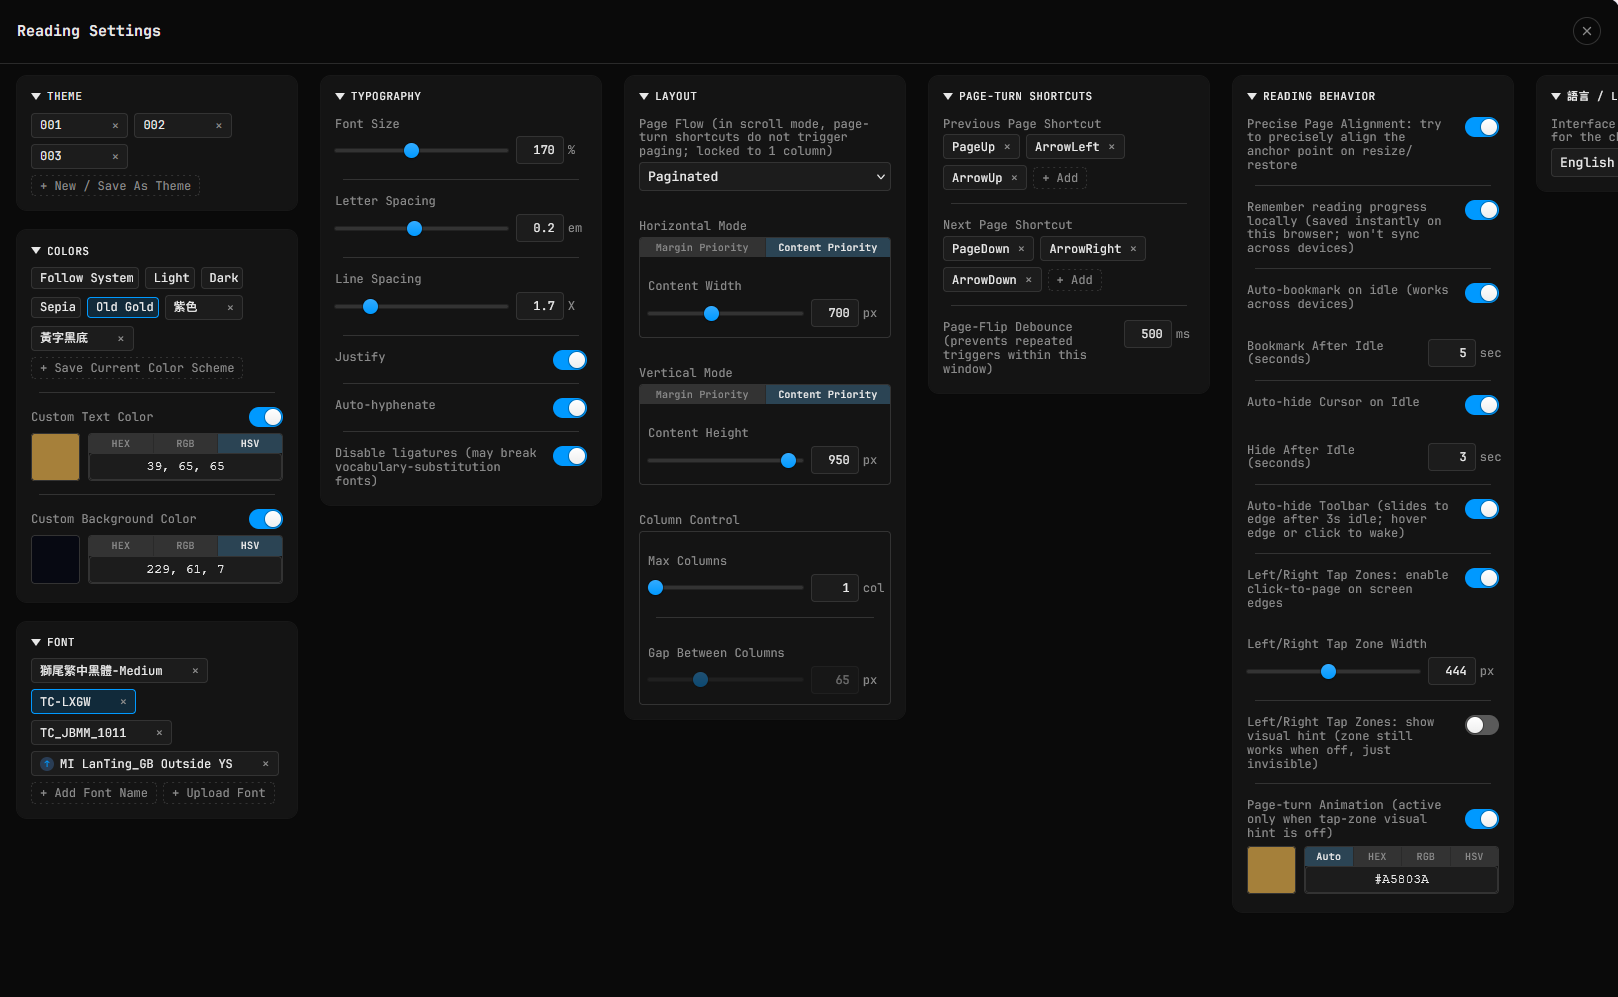
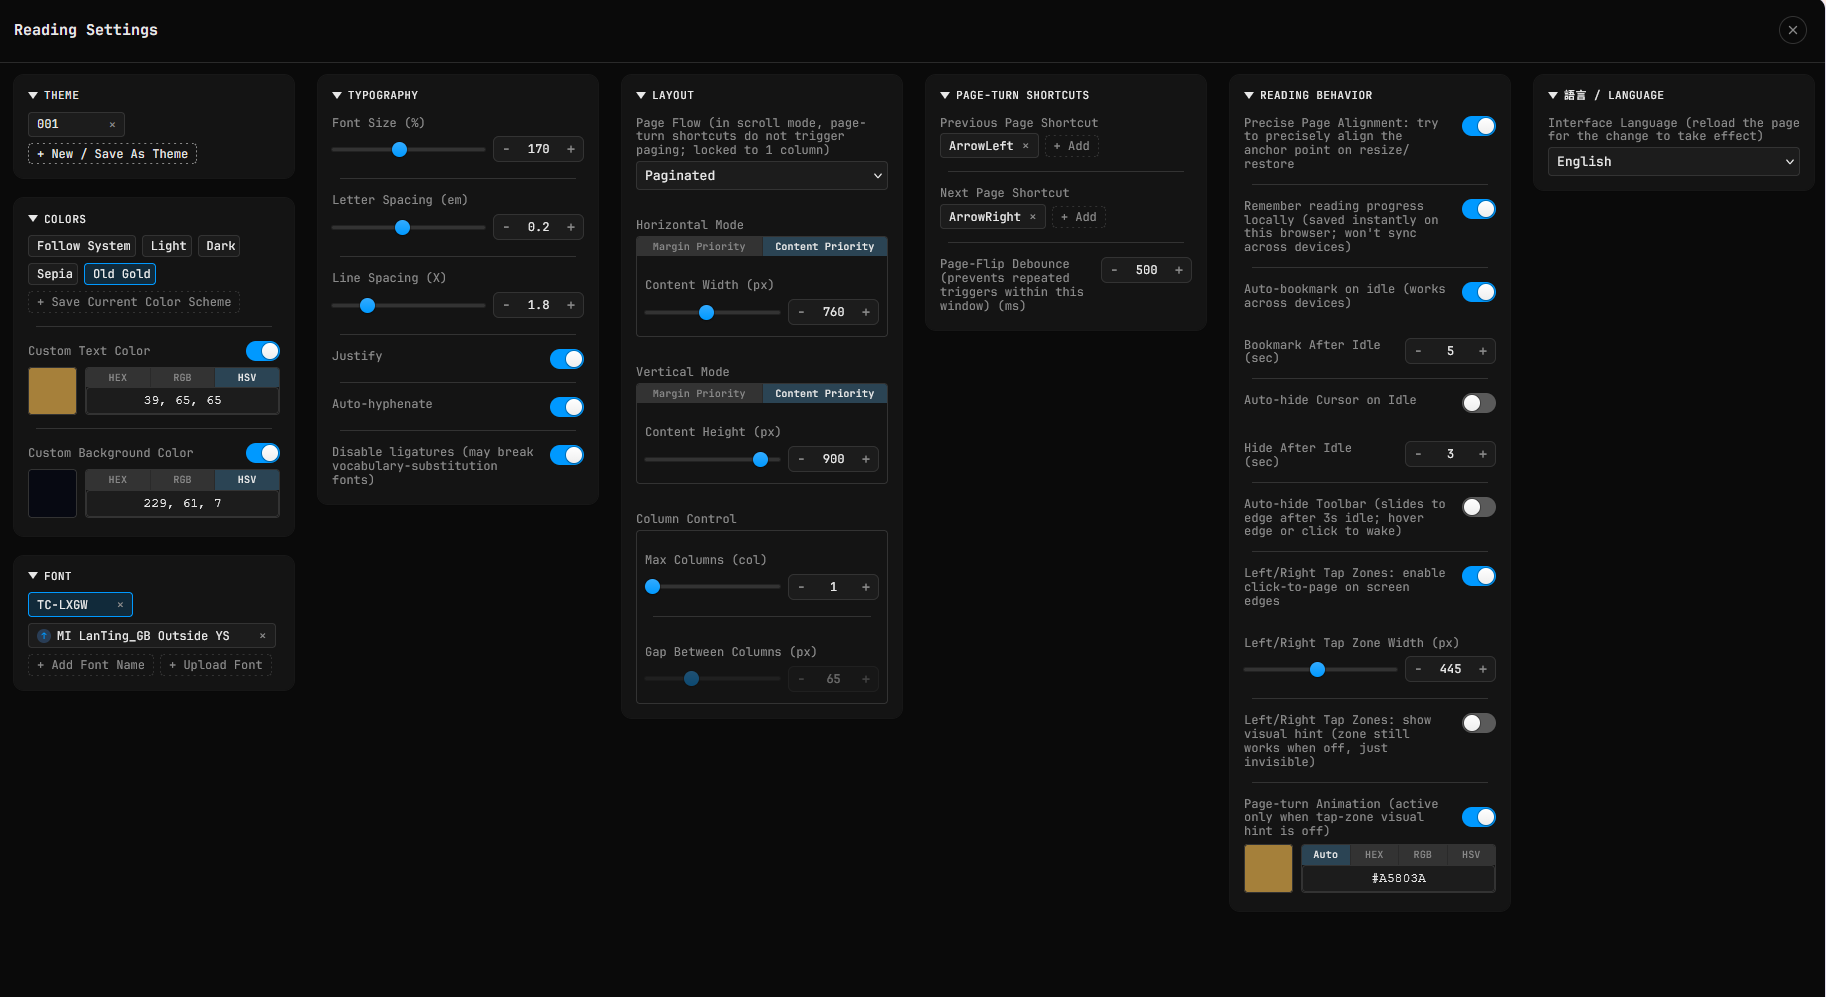
docs(readme): 更新設定面板截圖與功能說明（數值調整器、滾輪翻頁、精準定位新行為、修正範圍與主題數）
- 中英截圖換成 v1.76.24 設定面板。
- 新增數值欄位操作說明（−／＋、方向鍵、滾輪、增減單位規則）。
- 翻頁快速鍵段落補上滑鼠滾輪翻頁，以及設定面板開啟時暫停翻頁。
- 翻頁精準定位改寫為「頁面第一個字精確維持在頁首、導覽時恢復原分頁」。
- 修正：字級 70%～300%、字距 −0.05em～0.5em、內建主題五種（新增墨金／Old Gold）、中文「置閒」→「閒置」。

Claude-Session: https://claude.ai/code/session_01NaKhqSDZUGaypDv8nTNDg1

diff --git a/README.md b/README.md
@@ -16,8 +16,8 @@ Calibre-Web's built-in epub.js reader has limited typography controls (font size
 
 ### Typography
 
-- **Font size**: adjustable from 50% to 300%.
-- **Letter spacing**: adjustable from −0.1em to 0.5em.
+- **Font size**: adjustable from 70% to 300%.
+- **Letter spacing**: adjustable from −0.05em to 0.5em.
 - **Line spacing**: adjustable from 1× to 5×.
 - **Justification**: toggle full justification on or off.
 - **Auto-hyphenation**: toggle automatic hyphenation on or off.
@@ -25,6 +25,9 @@ Calibre-Web's built-in epub.js reader has limited typography controls (font size
 
 > [!NOTE]
 > If you notice certain words or character groups appearing noticeably tighter than the surrounding text when using a custom letter spacing, try enabling **Disable Ligatures**. This is most commonly seen with fonts that perform glyph substitution for script conversion.
+
+> [!TIP]
+> Every numeric field can be typed into directly or adjusted with the **− / +** buttons on either side (hold to repeat). After clicking a slider or number box to focus it, you can also fine-tune with the arrow keys or the mouse wheel: ↑→ / ↓← on sliders, ↑ / ↓ in number boxes. The step follows the decimal places of the current value (e.g. line spacing 1.25 steps by 0.01), but is never coarser than the field's own minimum step.
 
 ### Layout
 
@@ -35,7 +38,7 @@ Calibre-Web's built-in epub.js reader has limited typography controls (font size
 
 ### Themes and colors
 
-- **Themes**: four built-in themes (Follow System, Light, Dark, Sepia), plus the ability to save your current settings as a named custom theme. Multiple themes can be reordered by drag-and-drop, and an existing theme can be overwritten with your current settings.
+- **Themes**: five built-in themes (Follow System, Light, Dark, Sepia, Old Gold), plus the ability to save your current settings as a named custom theme. Multiple themes can be reordered by drag-and-drop, and an existing theme can be overwritten with your current settings.
 - **Custom colors**: text and background colors can each be entered in HEX / RGB / HSV format, with a built-in color picker also available. Color schemes are savable and reorderable by drag-and-drop.
 
 ### Fonts
@@ -46,10 +49,12 @@ Calibre-Web's built-in epub.js reader has limited typography controls (font size
 
 - Fully customizable keyboard shortcuts for previous/next page. Multiple key combinations can be recorded per direction.
 - **Page-flip debounce**: set a minimum interval (in milliseconds) between consecutive page-turn triggers from the same shortcut, to prevent accidental double-flips.
+- Pages can also be turned with the **mouse wheel** (over the page, or over the progress bar at the bottom).
+- While the settings panel is open, page-turn shortcuts and wheel paging are paused so the arrow keys and wheel can adjust values instead; shortcuts keep working while the table of contents is open.
 
 ### Reading behavior
 
-- **Precise page alignment** (experimental, off by default): when adjusting typography settings or resizing the window, attempts to align the currently-read line to the top of the new layout, reducing visual jumps. Automatically disabled in scroll mode.
+- **Precise page alignment** (experimental, off by default): after toggling fullscreen, resizing the window or changing typography settings, the **first character** of the page you were on stays exactly at the top of the new layout, and paging forward or back continues from there. Jumping via the table of contents, a link or the progress bar restores the chapter's normal pagination. Automatically disabled in scroll mode.
 - **Local reading progress**: reading position is saved locally on every page turn. On reopening a book, the reader restores the last position automatically.
 - **Auto-sync to server**: optionally sync the local reading position back to Calibre-Web's server-side bookmark after a configurable idle period. Can also be triggered manually.
 - **Auto-hide cursor**: the cursor hides automatically after a configurable number of seconds of inactivity, and reappears on mouse movement.
